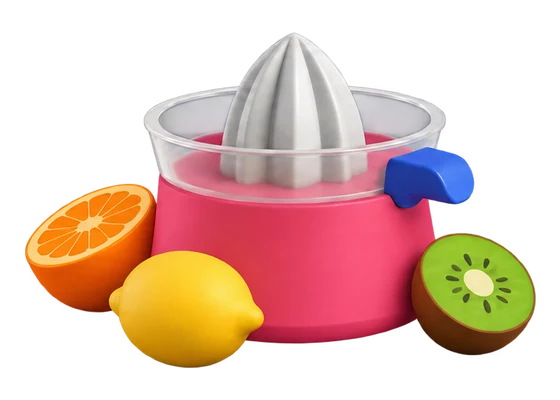
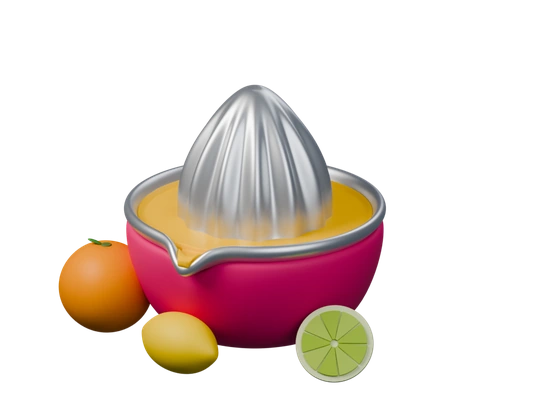
feat(juicer): refresh illustrations and align position labels

diff --git a/apps/main/src/modules/strategies/juicer/components/MyPositionsCard.tsx b/apps/main/src/modules/strategies/juicer/components/MyPositionsCard.tsx
@@ -1,9 +1,11 @@
 import {
+  AssetLabel,
   Button,
   Card,
   CardBody,
   CardHeader,
   CardTitle,
+  Chip,
   Flex,
   PositionCard,
   Stack,
@@ -18,6 +20,7 @@ import { useTranslation } from "react-i18next"
 import { formatUnits } from "viem"
 
 import { AssetLogo } from "@/components/AssetLogo"
+import { JuicerStrategyLogo } from "@/modules/strategies/juicer/components/JuicerStrategyLogo"
 import { type JuicerVaultConfig } from "@/modules/strategies/juicer/config/vaults"
 import { useVaultDisplayAsset } from "@/modules/strategies/juicer/hooks/useCollateralEquivalent"
 import { type JuicerPosition } from "@/modules/strategies/juicer/hooks/useJuicerAccount"
@@ -87,7 +90,17 @@ export const MyPositionsCard: FC<MyPositionsCardProps> = ({
                   logo={
                     <AssetLogo id={displayAsset.id} size="medium" hideChain />
                   }
-                  symbol={symbol}
+                  symbol={
+                    <AssetLabel
+                      symbol={symbol}
+                      badge={
+                        <Chip variant="amber" size="extra-small" rounded>
+                          <JuicerStrategyLogo size="extra-small" />
+                          Juicer
+                        </Chip>
+                      }
+                    />
+                  }
                   stats={
                     <>
                       <ValueStats

diff --git a/apps/main/src/modules/strategies/juicer/components/AboutCard.tsx b/apps/main/src/modules/strategies/juicer/components/AboutCard.tsx
@@ -75,7 +75,7 @@ export const AboutCard: FC = () => {
                   <Text fs="p5" color={getToken("text.medium")}>
                     {t(`juicer:explainer.${stage}.description`)}
                   </Text>
-                  <Text fs="p6" color={getToken("text.low")}>
+                  <Text fs="p5" color={getToken("text.medium")}>
                     {t(`juicer:${NOTES[stage]}`)}
                   </Text>
                 </SJuicerExplainerPanel>
@@ -83,7 +83,7 @@ export const AboutCard: FC = () => {
             ))}
           </SJuicerExplainerFlow>
           <Separator />
-          <Text fs="p6" color={getToken("text.low")}>
+          <Text fs="p5" color={getToken("text.medium")}>
             {t("juicer:explainer.risk")}
           </Text>
           <Collapsible
